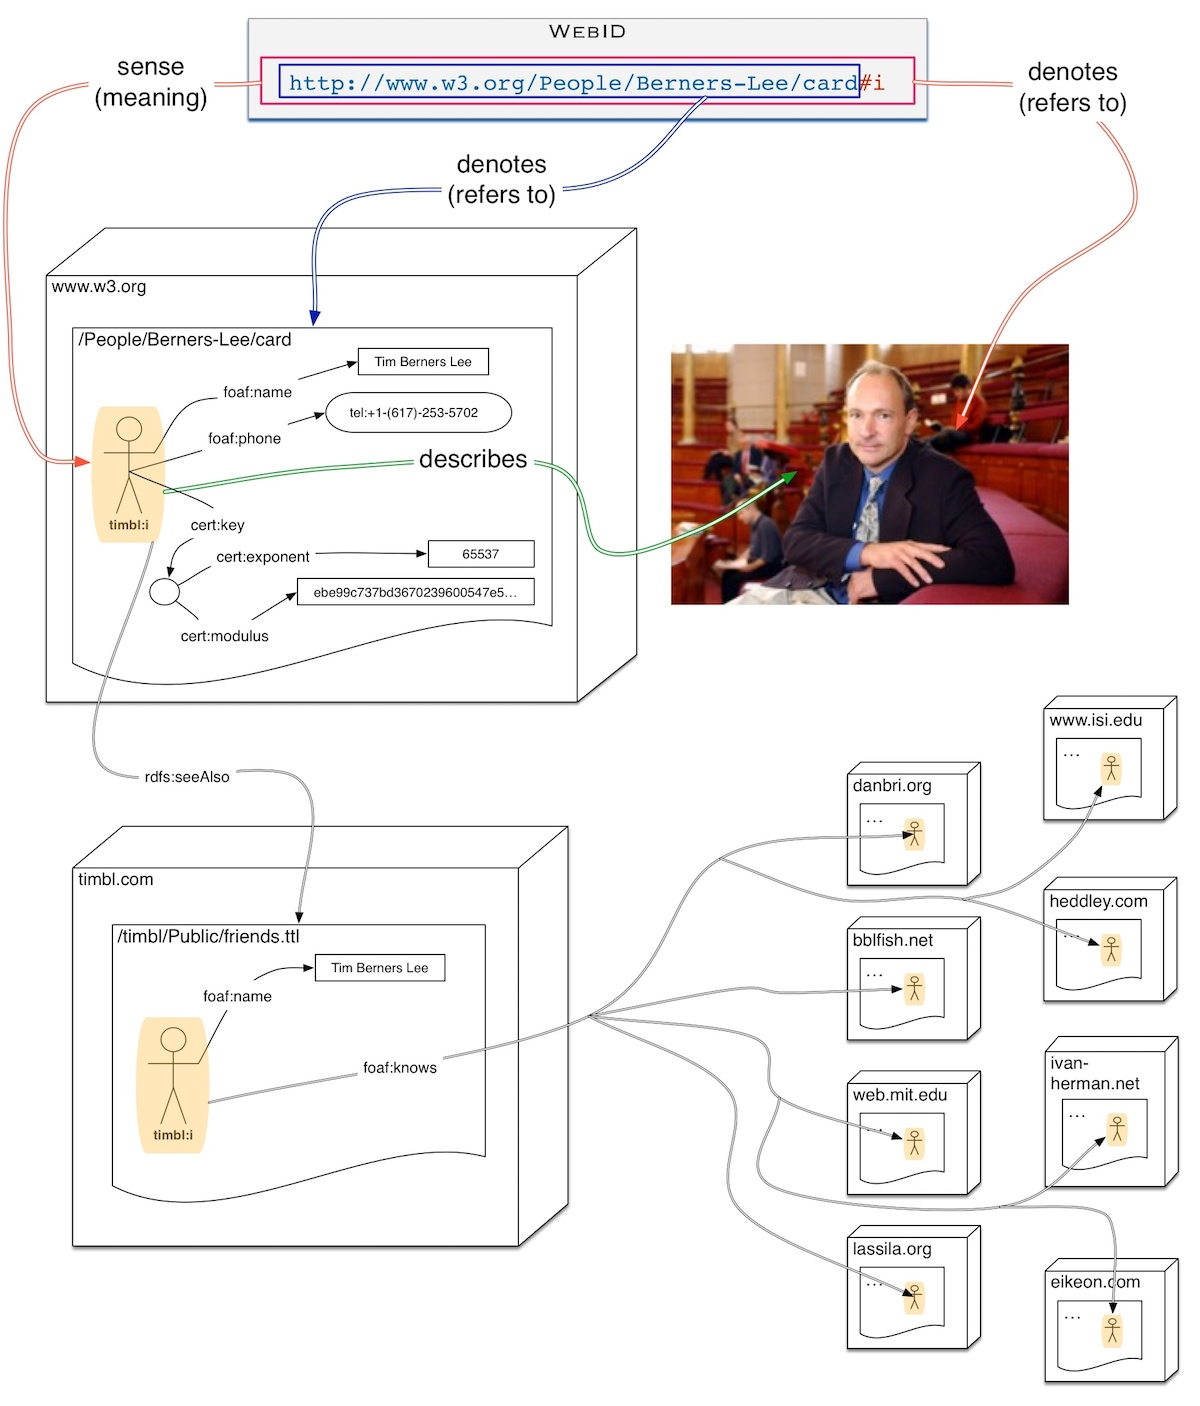
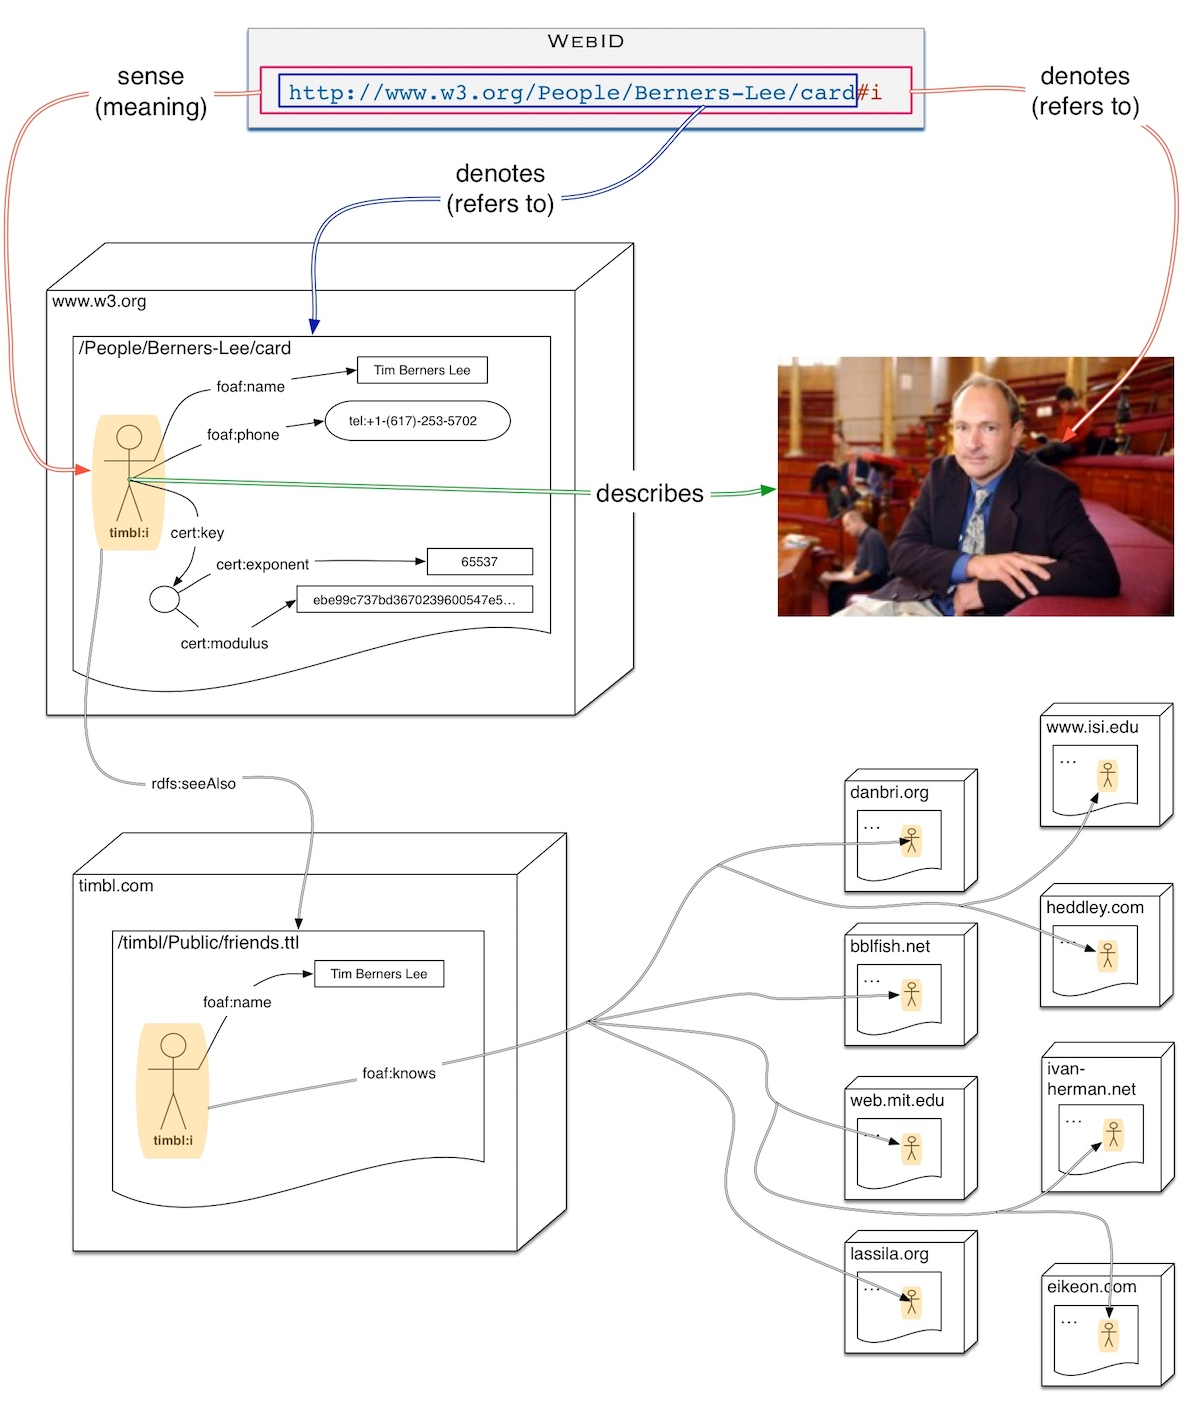
added image to wiki & improved image details

diff --git a/Scripting-with-Ammonite.md b/Scripting-with-Ammonite.md
@@ -999,9 +999,12 @@ in one line.
 ## Jumping Around in Streams
 
 So as a quick reminder on what we want to do from our work in the previous section in _The Web of Data 1_: we wish to be able to
-start from a URL, fetch it, find specific links from there to other pages which may be on servers owned by other organisations - and we will take this as our base example as it is what distinguishes linked data from other data found on the web - explore the data we get there, in order to perhaps get yet more data from links we have found there, which we can then explore by fetching those documents.
 
-![jumping the foaf:knows links](https://raw.githubusercontent.com/wiki/banana-rdf/banana-rdf/img/jumpingAround.png)
+1. start from a [WebID](https://www.w3.org/2005/Incubator/webid/spec/identity/) which is a URL for a person - we have illustrated this in the graphic below with a URL that refers to Tim Berners Lee - whose sense is given by a PointedGraph constituted from the graph constituted at the document location of the URI without the fragment, 
+2. find specific links from there to [`rdfs:seeAlso`](https://www.w3.org/TR/rdf-schema/#ch_seealso) documents in case the WebID owner has placed more information in different  resources which can be access controlled 
+3. and from either of those try to jump via the [`foaf:knows`](http://xmlns.com/foaf/0.1/knows) relation to the descriptions of those people as given by the owners of the names space of those URLs themselves, hosted on servers owned by potentially completely unrelated organisations.
+
+![jumping the foaf:knows links](https://raw.githubusercontent.com/wiki/banana-rdf/banana-rdf/img/WebID-foafKnows.jpg)
 
 This is what web crawlers for search engines do when the follow links from one web page to another, taking html data, parsing it in order to index the words, and extract links to new pages that they can then fetch. But as links in html pages have until recently been very weakly typed, the only thing one can glean from such links automatically are that there are links between two pages and that the link has been taged in some way.  [RDFa](https://rdfa.info/) deployment is of course changing the situation even here.
 
